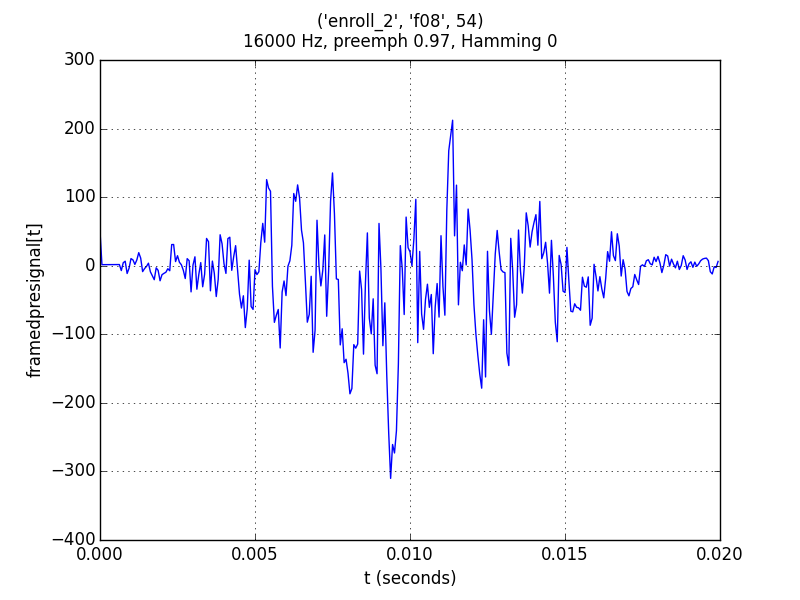
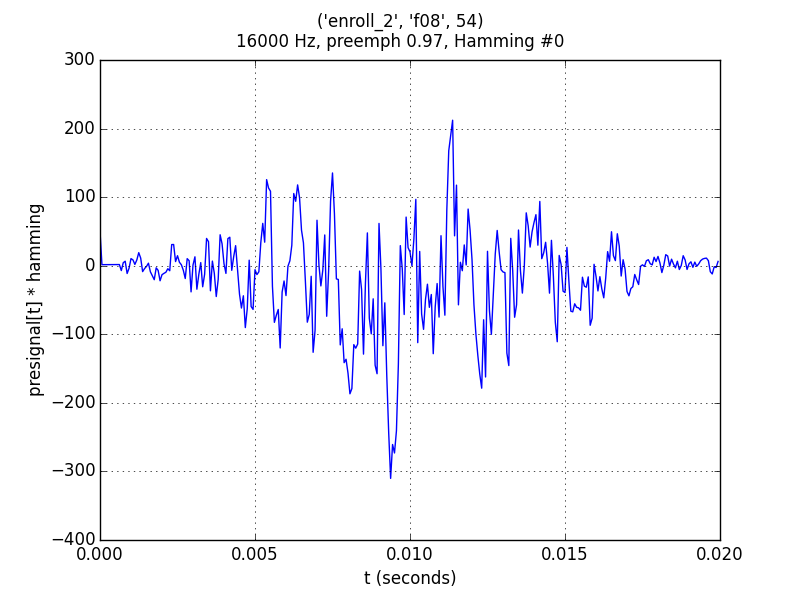
Code from module 'sigproc_test' added to module 'sigproc'.

Changed region(s): [[0.2812, 0.06, 0.7188, 0.09], [0.0312, 0.33, 0.0625, 0.66]]

diff --git a/src/sigproc.py b/src/sigproc.py
@@ -68,8 +68,8 @@ def magspec(frames, NFFT=512):
     @returns: If frames is an N*D matrix, output will be (N x (NFFT/2)). Each row will
     be the magnitude spectrum of the corresponding frame.
     """
-    complex_spec = np.fft.rfft(frames, NFFT)    # the window is multiplied in framesignal()
-    return np.absolute(complex_spec)            # from a + jb to |z| (cuts half of the array off)
+    complex_spec = np.fft.rfft(frames, NFFT)
+    return np.absolute(complex_spec)    # from a + jb to |z| (cuts in half due to simmetry)
 
 def powspec(frames, NFFT=512):
     """Computes the power spectrum (periodogram estimate) of each frame in frames.
@@ -83,3 +83,83 @@ def powspec(frames, NFFT=512):
     be the power spectrum of the corresponding frame.
     """
     return ((1.0/NFFT) * np.square(magspec(frames, NFFT=NFFT)))
+
+
+#TESTS
+if __name__ == '__main__':
+    import scipy.io.wavfile as wavf
+
+    import os, os.path, shutil
+
+    from useful import CORPORA_DIR, IMAGES_SIGPROC_DIR, testplot
+    import sigproc
+
+
+    if os.path.exists(IMAGES_SIGPROC_DIR):
+            shutil.rmtree(IMAGES_SIGPROC_DIR)
+    os.mkdir(IMAGES_SIGPROC_DIR)
+
+
+    #Reading signal from base and plotting
+    voice = ('enroll_2', 'f08', 54)
+    (enroll, speaker, speech) = voice
+    (samplerate, signal) = wavf.read('%smit/%s/%s/phrase%02d_16k.wav' % (CORPORA_DIR, enroll,
+                                                                       speaker, speech))
+    numsamples = len(signal)
+    time = np.linspace(0, numsamples/samplerate, numsamples, False)
+    testplot(time, signal, '%s\n%d Hz' % (voice, samplerate), 't (seconds)',
+             'signal[t]', 'sigproc/0-signal-%s-%s-%02d-%dHz' % (enroll, speaker,
+                                                                speech, samplerate))
+
+    #Pre emphasized signal with coefficient 0.97
+    presignal = sigproc.preemphasis(signal)
+    testplot(time, presignal, '%s\n%d Hz, preemph 0.97' % (voice, samplerate),
+             't (seconds)', 'presignal[t]', 'sigproc/1-signal-%s-%s-%02d-%dHz-preemph0.97' %
+             (enroll, speaker, speech, samplerate))
+
+    NFFT = 512
+    numfftbins = math.floor(NFFT/2 + 1)    #fft bins == 'caixas' de FFT
+    freq = np.linspace(0, samplerate/2, numfftbins)
+
+    #Magnitude of presignal's spectrum
+    magspec = sigproc.magspec(presignal, NFFT)
+    testplot(freq, magspec, '%s\n%d Hz, preemph 0.97, |FFT|' % (voice, samplerate),
+             'f (Hz)', '|FFT[f]|', 'sigproc/2-signal-%s-%s-%02d-%dHz-preemph0.97-magspec' %
+             (enroll, speaker, speech, samplerate), True, 'red')
+
+    #Squared magnitude of presignal's spectrum
+    powspec = sigproc.powspec(presignal, NFFT)
+    testplot(freq, powspec, '%s\n%d Hz, preemph 0.97, |FFT|²' % (voice, samplerate),
+             'f (Hz)', '|FFT[f]|²', 'sigproc/3-signal-%s-%s-%02d-%dHz-preemph0.97-powspec' %
+             (enroll, speaker, speech, samplerate), True, 'red')
+
+    #samples = sec * (samples/sec)
+    framelen = 0.02
+    framestep = 0.01
+
+    frames = sigproc.framesignal(presignal, framelen*samplerate, framestep*samplerate)
+    magframes = sigproc.magspec(frames, NFFT)
+    powframes = sigproc.powspec(frames, NFFT)
+    numframes = len(frames)
+    print('#frames = %d' % numframes)
+    numiter = 10
+    for i in range(0, numframes, math.floor(numframes/numiter)):
+        frametime = np.linspace(i*framestep, (i*framestep + framelen), framelen*samplerate,
+                                False)
+        #Framed pre emphasized signal using a Hamming window
+        testplot(frametime, frames[i], '%s\n%d Hz, preemph 0.97, Hamming #%d' %
+                 (voice, samplerate, i), 't (seconds)', 'presignal[t] * hamming',
+                 'sigproc/4-signal-%s-%s-%02d-%dHz-preemph0.97-hamming%02d' %
+                 (enroll, speaker, speech, samplerate, i))
+
+        #Magnitude of the framed spectrum
+        testplot(freq, magframes[i], '%s\n%d Hz, preemph 0.97, |FFT(Hamming #%d)|' %
+                 (voice, samplerate, i), 'f (Hz)', '|FFT[f]|',
+                 'sigproc/4-signal-%s-%s-%02d-%dHz-preemph0.97-hamming%02d-magspec' %
+                 (enroll, speaker, speech, samplerate, i), True, 'red')
+
+        #Squared magnitude of the framed spectrum
+        testplot(freq, powframes[i], '%s\n%d Hz, preemph 0.97, |FFT(Hamming #%d)|²' %
+                 (voice, samplerate, i), 'f (Hz)', '|FFT[f]|²',
+                 'sigproc/4-signal-%s-%s-%02d-%dHz-preemph0.97-hamming%02d-powspec' %
+                 (enroll, speaker, speech, samplerate, i), True, 'red')
